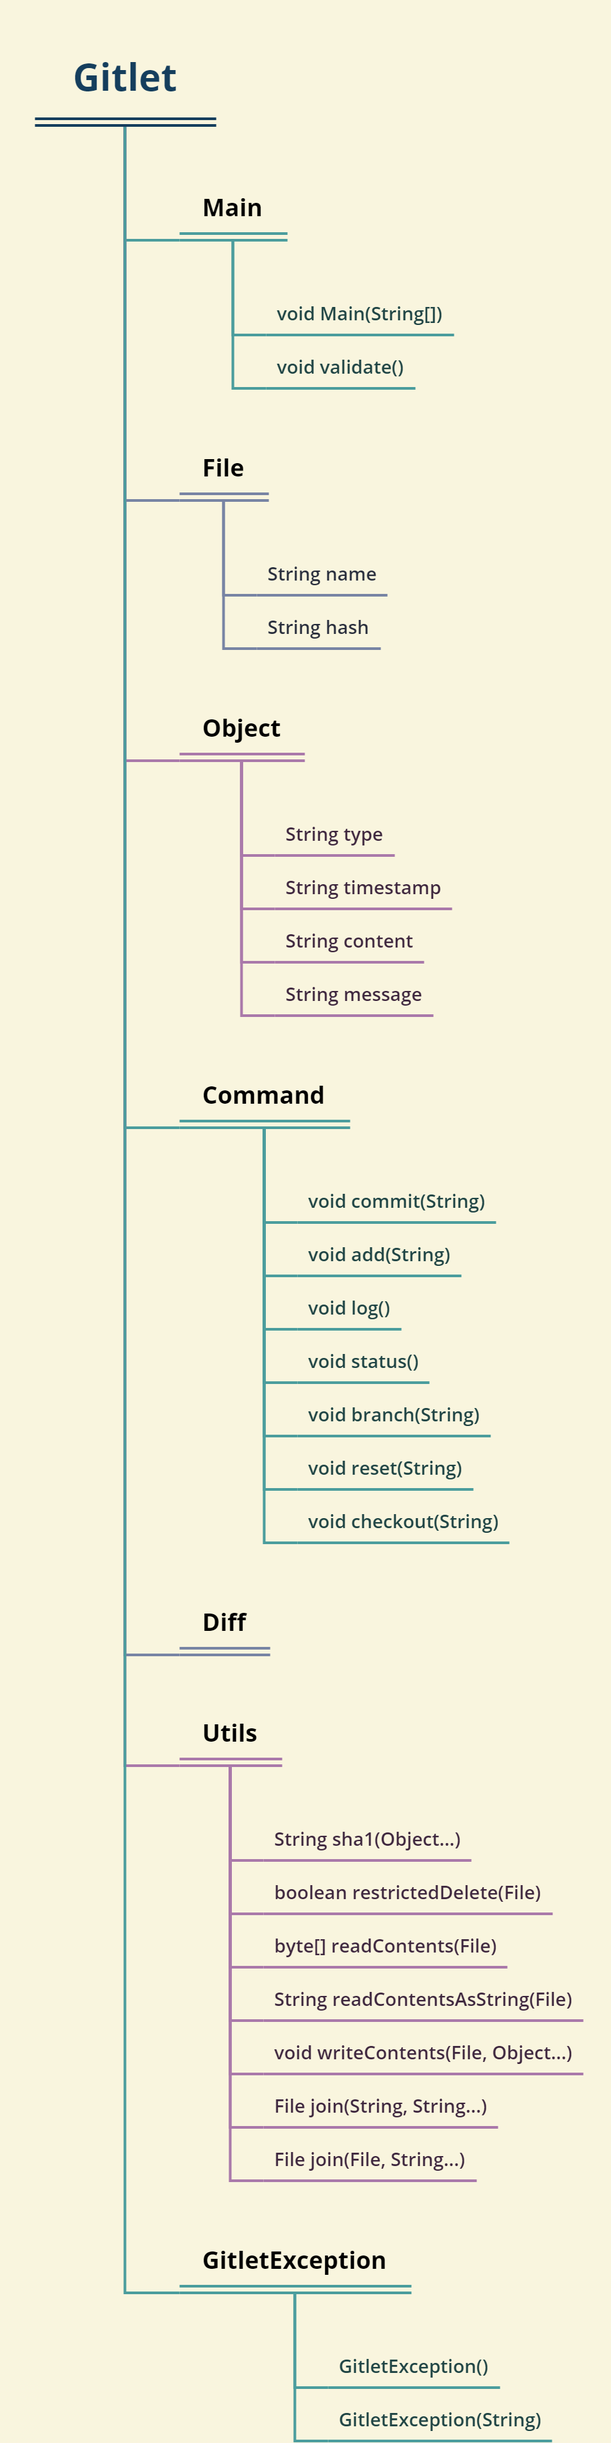
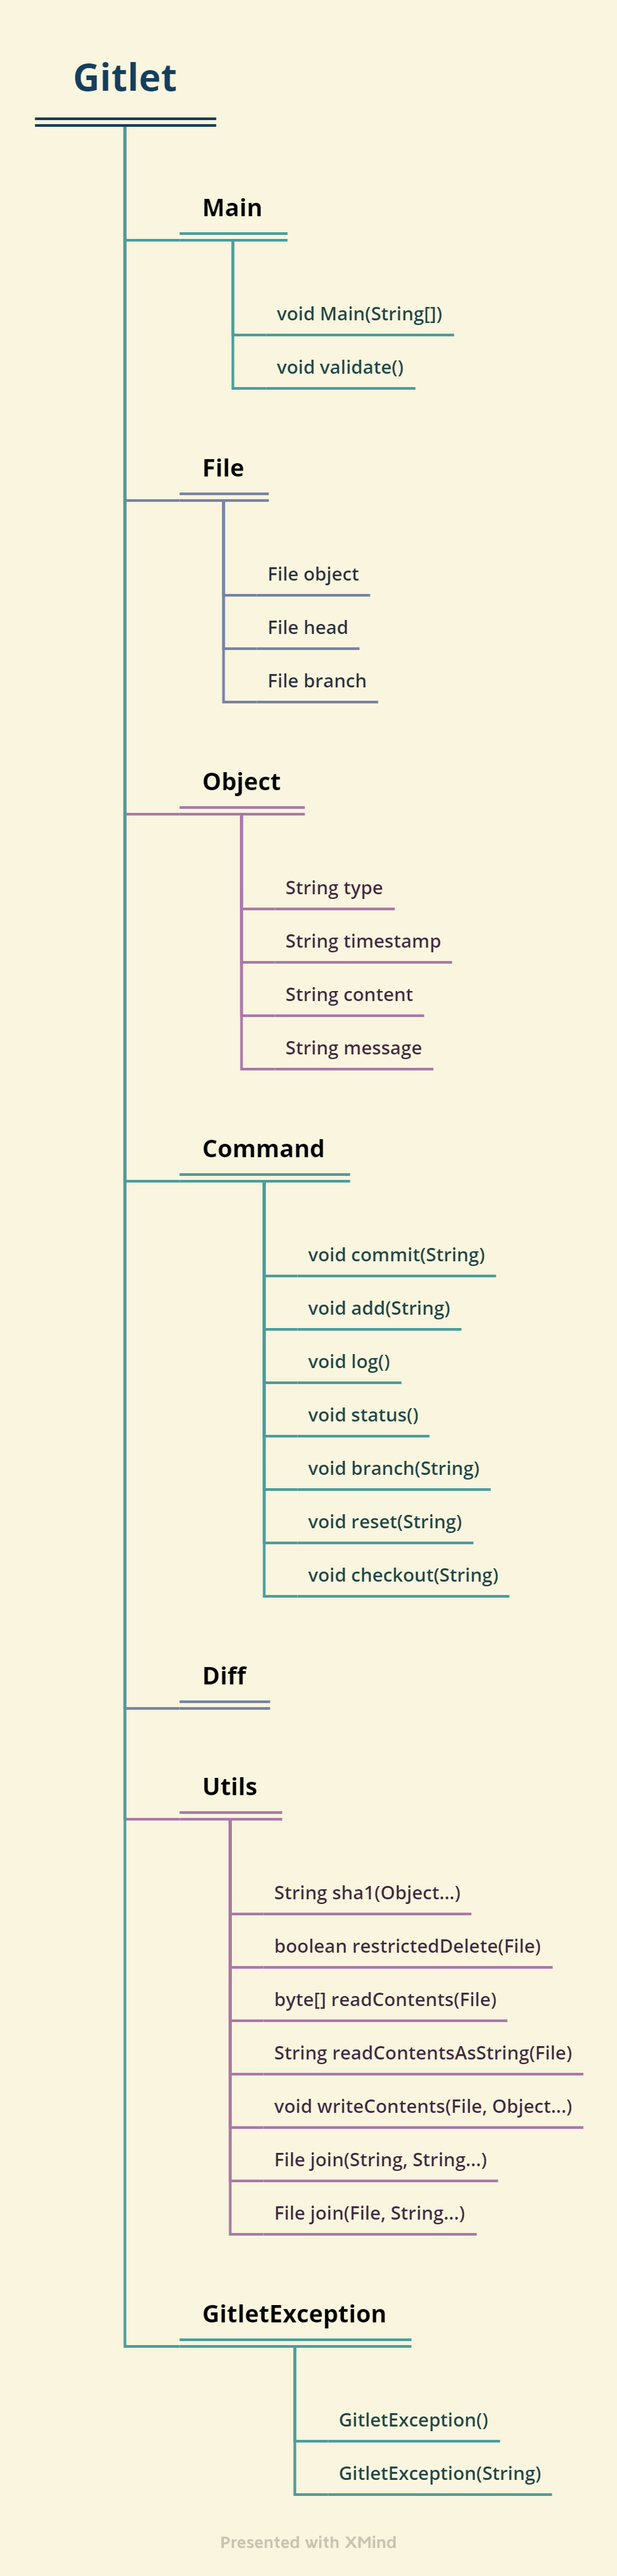
submitting lab13

Changed region(s): [[0.2748, 0.6228, 0.9466, 1.0], [0.2748, 0.0623, 0.8244, 0.6228], [0.1221, 0.0, 0.3053, 0.9342]]

diff --git a/lab13/gitlet-design.md b/lab13/gitlet-design.md
@@ -28,25 +28,89 @@ Prof. Hilfinger, write the hw for me, etc.
 
 ### b. `File`
 
+This class is designed for representing any necessary file for recording
+its related information and files, e.g., BRANCH, HEAD, etc. It works 
+like cache in the computers so that your current working status would
+not be missing after closing or restarting the program.
+
 ### c. `Object`
+
+This class is designed for representing any object in the system. 
+It could be branches, head, the file you want to save, etc.
 
 ### d. `Command`
 
+This class represents all the commands that the program could read. 
+Imagine you are using Git, and this class is the things you can type
+in the CMD or Terminal that the program could receive and then execute,
+e.g., add, commit, log, status, etc.
+
 ### e. `Diff`
+
+A comparison of two sequences of strings. After executing setSequences 
+to initialize the data, methods allow computing the longest common sequences 
+and differences in the form of edits needed to convert one sequence to 
+the next.
+--P. N. Hilfinger
 
 ### f. `Utils`
 
+The associated utilities for certain functions to work, e.g., filing
+sentences (writeContent, readContent, join, etc.). Made by P. N. Hilfinger.
+
 ### g. `GitletException`
+
+General exception indicating a Gitlet error.  For fatal errors, the result
+of .getMessage() is the error message to be printed.
+--P. N. Hilfinger
 
 ## 2. Algorithms
 
 ### a. `Main`
 
+#### i. void Main(String[])
+
+The main algorithm. It takes in the commands as a string list argument and 
+then call appropriate funtions and classes to fulfill its designed functionality.
+
+#### ii. void validate()
+
+The helper function for the Main function. It is used for validating the input command
+to see if it is executable. A GitletException would be thrown if the command is not executable.
+
 ### b. `File`
+
+#### i. File object
+
+#### ii. File head
+
+#### iii. File branch
 
 ### c. `Object`
 
+#### i. String type
+
+#### ii. String timestamp
+
+#### iii. String content
+
+#### iv. String message
+
 ### d. `Command`
+
+#### i. void commit(String)
+
+#### ii. void add(String)
+
+#### iii. void log()
+
+#### iv. void status()
+
+#### v. void branch(String)
+
+#### vi. void reset(String)
+
+#### vii. void checkout(String)
 
 ### e. `Diff`
 
@@ -56,7 +120,9 @@ Prof. Hilfinger, write the hw for me, etc.
 
 ## 3. Persistence
 
-
+We used java `File` class to create and save necessary files or cache.
+All the files related would be saved to the root/.gitlet workspace
+for further usage.
 
 ## 4. Design Diagram
 
